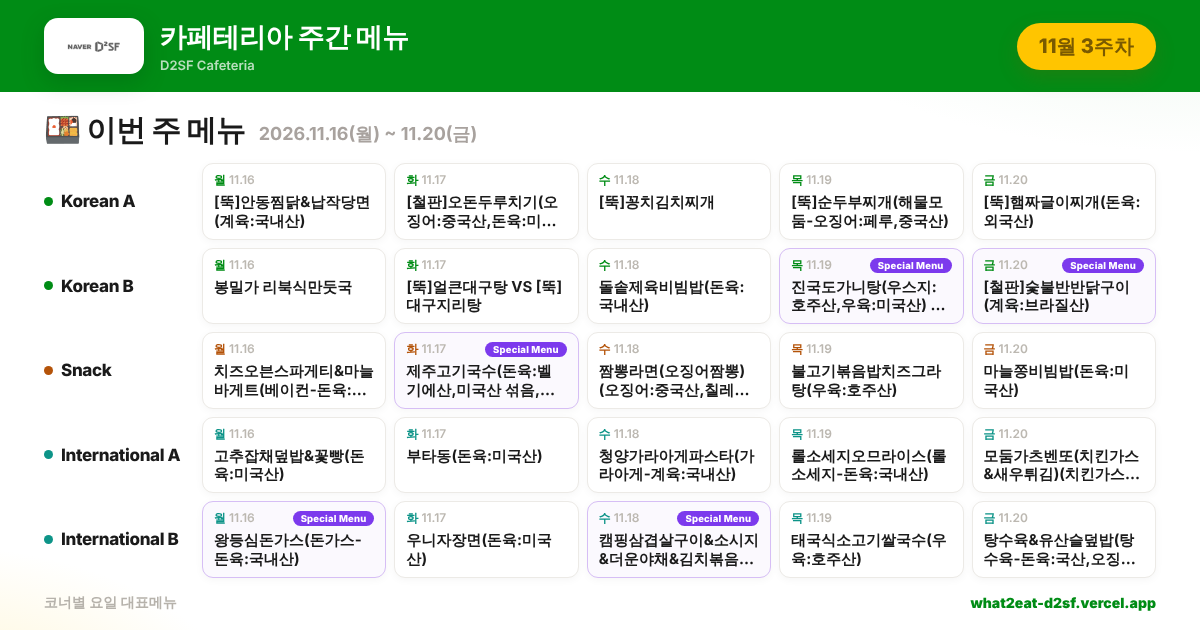
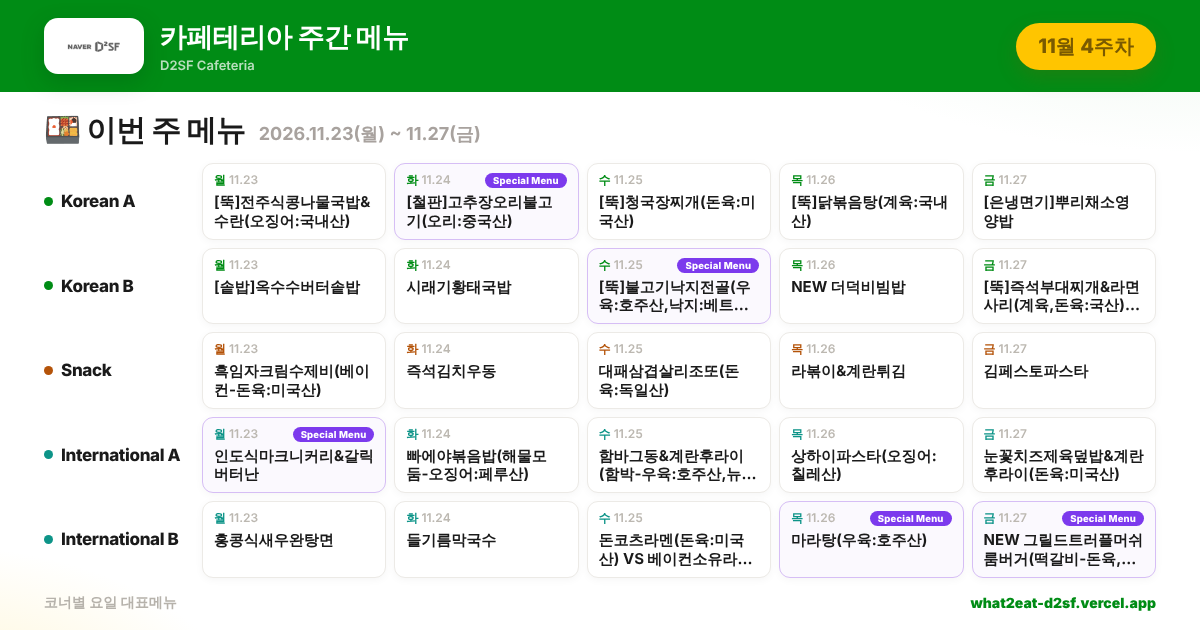
식단 추가: 12월 1주차(2026.11.30~12.04) 2026-w26
화재서초 게시판 12-1 식단표 이미지 전사.

Claude-Session: https://claude.ai/code/session_01CCk7kE6nDbFDt1BnXJzGQQ

diff --git a/src/data/menu-2026-w26.js b/src/data/menu-2026-w26.js
@@ -1,0 +1,122 @@
+// ─────────────────────────────────────────────────────────────
+// 지하식당 주간 식단 — 2026년 12월 1주차 (2026.11.30~12.04)
+// ※ 월~금 5일 전체 운영 (미운영 코너 없음) — 11월→12월 주간 걸침
+// 출처: 화재서초 게시판 12-1 식단표 (붙여넣은 이미지 전사)
+// 칼로리(kcal)는 1인분 추정치이며 실제 제공량과 다를 수 있습니다.
+// ─────────────────────────────────────────────────────────────
+
+const S = (meal, day, corner, price, cuisine, items, tag = null, side = false) => ({
+  meal,
+  day,
+  corner,
+  price,
+  cuisine,
+  items,
+  tag,
+  side,
+});
+
+const days = [
+  ["월", "11.30"],
+  ["화", "12.01"],
+  ["수", "12.02"],
+  ["목", "12.03"],
+  ["금", "12.04"],
+];
+
+const sets = [
+  // ───────── 조식 ─────────
+  S("조식", "월", "백반", 9400, "한식", [["[뚝]시금치순두부된장국", 150], ["현미밥", 300], ["우삼겹불고기(우육:호주산)", 300], ["가지볶음", 90], ["고들빼기", 40], ["깍두기 / 마시는요구르트", 80]]),
+  S("조식", "화", "백반", 9400, "한식", [["[뚝]동태살매운국(동태:러시아산)", 120], ["현미밥", 300], ["고추튀김", 200], ["계란후라이", 100], ["시래기된장나물", 60], ["깍두기 / 포도", 60]]),
+  S("조식", "수", "백반", 9400, "한식", [["[뚝]다슬기해장국", 100], ["현미밥", 300], ["돼지고기춘장볶음(돈육:미국산)", 300], ["감자채볶음", 150], ["양념김구이", 30], ["포기김치 / 양상추샐러드", 60]]),
+  S("조식", "목", "백반", 9400, "한식", [["[뚝]장터국밥(우육:호주산)", 350], ["현미밥", 300], ["임연수구이", 250], ["새송이버섯볶음", 90], ["궁채절임", 40], ["포기김치 / 요거트&씨리얼", 120]]),
+  S("조식", "금", "백반", 9400, "한식", [["[뚝]얼큰종합탕", 200], ["현미밥", 300], ["데리야끼닭조림(계육:브라질산)", 300], ["낙지젓(중국산)", 50], ["양배추된장무침", 60], ["깍두기 / 자몽", 60]]),
+  S("조식", "월", "라면코너", 7700, "분식", [["라면(진라면)", 500], ["단무지 / 포기김치", 20], ["김밥 반줄(햄-계육,돈육:국산)", 200]]),
+  S("조식", "화", "라면코너", 7700, "분식", [["라면(오징어짬뽕)", 500], ["단무지 / 포기김치", 20], ["김밥 반줄(햄-계육,돈육:국산)", 200]]),
+  S("조식", "수", "라면코너", 7700, "분식", [["라면(참깨라면)", 500], ["단무지 / 포기김치", 20], ["김밥 반줄(햄-계육,돈육:국산)", 200]]),
+  S("조식", "목", "라면코너", 7700, "분식", [["라면(너구리라면)", 500], ["단무지 / 포기김치", 20], ["김밥 반줄(햄-계육,돈육:국산)", 200]]),
+  S("조식", "금", "라면코너", 7700, "분식", [["라면(신라면)", 500], ["단무지 / 포기김치", 20], ["김밥 반줄(햄-계육,돈육:국산)", 200]]),
+
+  // ───────── 중식 ─────────
+  S("중식", "월", "Korean A", 9400, "한식", [["[은냉면기]콩나물버섯밥&부추양념장", 450], ["[뚝]늙은호박고추장찌개", 150], ["옛날소시지전&케찹", 200], ["메추리알떡볶이 / 해초채소무침", 150], ["포기김치", 15]], "welgreen"),
+  S("중식", "화", "Korean A", 9400, "한식", [["[뚝]꽃게된장찌개(꽃게:중국산)", 150], ["수수밥", 310], ["계란찜", 100], ["쥐어채고추장볶음", 90], ["고추지무침", 40], ["깍두기", 20]]),
+  S("중식", "수", "Korean A", 9400, "한식", [["[철판]춘천닭갈비(계육:브라질산)", 300], ["버섯맑은국", 80], ["흑미밥", 310], ["쫄면채소무침", 90], ["콩나물무침", 50], ["포기김치", 15]]),
+  S("중식", "목", "Korean A", 9400, "한식", [["[뚝]쇠고기미역국(우육:호주산)", 100], ["귀리밥", 310], ["메추리알장조림", 150], ["매콤어묵볶음", 200], ["치커리생채", 60], ["깍두기", 20]]),
+  S("중식", "금", "Korean A", 9400, "한식", [["[뚝]닭개장(계육:국내산,닭뼈:국산)", 150], ["차조밥", 310], ["비엔나소시지야채볶음(돈육,계육:국내산)", 250], ["감자조림", 150], ["미역초무침", 50], ["깍두기", 20]]),
+
+  S("중식", "월", "Korean B", 9900, "한식", [["[뚝]닭다리백숙(계육:국내산)", 350], ["기장밥 / 김치전", 310], ["연근조림", 90], ["해조채소무침", 60], ["배추겉절이(배추:국내산,고춧가루:중국산)", 40]], "단가"),
+  S("중식", "화", "Korean B", 9900, "한식", [["[철판]반반돼지불고기(돈육:미국산)", 300], ["흑미밥", 310], ["어묵국", 80], ["고추장두부조림", 150], ["고추지무침 / 포기김치", 40]], "단가"),
+  S("중식", "수", "Korean B", 9900, "한식", [["[뚝]부산돼지국밥(돈육:미국산)", 350], ["귀리밥", 310], ["메밀전병(배추:국내산,고춧가루:중국산)", 200], ["돌자반 / 콩나물무침", 60], ["석박지", 20]]),
+  S("중식", "목", "Korean B", 9900, "한식", [["[솥밥]가자미솥밥", 450], ["두부김칫국", 80], ["너비아니계란전&케찹(돈육,계육:국내산)", 200], ["고사리볶음", 60], ["치커리생채", 60], ["깍두기", 20]]),
+  S("중식", "금", "Korean B", 9900, "한식", [["마늘보쌈정식(돈육:미국산)(보쌈-돈육:외국산)", 350], ["차조밥 / 다시마부챗국", 310], ["대구식매운잡채", 150], ["모둠쌈&쌈장 / 무말랭이무침", 90], ["배추겉절이(배추:국내산,고춧가루:중국산)", 40]], "단가"),
+
+  S("중식", "월", "Snack", 8800, "분식", [["NEW 시오콘부계란볶음밥", 500], ["유부장국", 80], ["통치즈스틱", 200], ["양상추샐러드&망고D", 100], ["깍두기", 20]]),
+  S("중식", "화", "Snack", 8800, "분식", [["육개장칼국수(우육:호주산)", 500], ["추가밥", 300], ["해물파전(중국산)", 200], ["단무지", 20], ["배추겉절이(배추:국내산,고춧가루:중국산)", 40]]),
+  S("중식", "수", "Snack", 8800, "분식", [["남도ST 웰빙가분식SET / 미니잔치국수", 500], ["제육볶음(돈육:국내산)&상추쌈&쌈장", 300], ["흑미김밥(세절햄-계육,돈육:국산)", 300], ["고구마튀김", 200], ["양파초절임 / 단무지", 20]], "단가"),
+  S("중식", "목", "Snack", 8800, "분식", [["마라떡볶이", 400], ["반줄김밥(햄-계육,돈육:국산)", 200], ["야채튀김", 200], ["단무지", 20], ["쿨피스", 60]]),
+  S("중식", "금", "Snack", 8800, "중식", [["베지자장면", 500], ["계란팟국", 80], ["짬뽕만두", 200], ["양파&춘장", 40], ["단무지", 20]], "건강"),
+
+  S("중식", "월", "International A", 9400, "양식", [["블로네제파스타(돈육:미국산)", 560], ["고르곤졸라피자&꿀", 200], ["양상추샐러드&자몽D", 100], ["무비트피클", 20], ["탄산음료", 100]]),
+  S("중식", "화", "International A", 9400, "양식", [["NEW 매콤허브치킨카레라이스(계육:국내산)", 560], ["어묵국", 80], ["콘치즈토스트", 200], ["양상추샐러드&포도D", 100], ["깍두기", 20]], "맛집"),
+  S("중식", "수", "International A", 9400, "중식", [["해물볶음짬뽕&후라이(오징어:중국산)", 540], ["팽이버섯장국", 80], ["사모사&칠리소스", 200], ["양배추샐러드&싸우전D", 100], ["깍두기", 20]]),
+  S("중식", "목", "International A", 9400, "한식", [["고추장숯불삼겹덮밥(돈육:스페인산)", 560], ["콩나물국", 80], ["새우가스(새우가스:중국산)&타르타르D", 250], ["양배추샐러드&오리엔탈D", 100], ["깍두기", 20]], "맛집"),
+  S("중식", "금", "International A", 9400, "기타", [["분짜(돈육:미국산,국내산)", 500], ["쌀국수장국", 80], ["야채볶음밥", 450], ["단호박볼&칠리소스", 200], ["양상추샐러드&파인애플D", 100], ["꼬들단무지", 20]]),
+
+  S("중식", "월", "International B", 9900, "양식", [["치킨커틀렛정식(치킨가스-계육:국내산)", 300], ["흑미밥 / 크림스프", 310], ["바질펜네샐러드", 250], ["양상추샐러드&자몽D", 100], ["오이피클 / 깍두기", 20]]),
+  S("중식", "화", "International B", 9900, "한식", [["물냉면 VS 비빔냉면(우육:호주산)", 450], ["사골육수", 80], ["왕만두찜(김치만두-배추:국내산,고춧가루:중국산)", 200], ["멕시칸샐러드(햄-계육,돈육:국내산)", 100], ["냉면김치", 20]], "맛집"),
+  S("중식", "수", "International B", 9900, "한식", [["날치알돌솥비빔밥", 500], ["미니온메밀소바", 300], ["피자맛고로케&케찹", 200], ["양배추샐러드&싸우전D", 100], ["깍두기", 20]]),
+  S("중식", "목", "International B", 9900, "일식", [["스키야키(일본식소고기전골)(우육:호주산)", 300], ["&우동사리&유자폰즈소스", 150], ["후리카케양념밥", 400], ["오징어링튀김(오징어링:중국산)", 200], ["파인샐러드 / 깍두기", 100]], "단가"),
+  S("중식", "금", "International B", 9900, "중식", [["돌솥마파순두부(돈육:미국산)", 450], ["스크램블에그밥", 400], ["다시마부챗국", 80], ["유린기(계육:국내산)", 250], ["짜사이채무침", 50], ["포기김치", 15]]),
+
+  S("중식", "월", "추가배식대", 0, "기타", [["양파링튀김", 200]], null, true),
+  S("중식", "화", "추가배식대", 0, "기타", [["백순대볶음", 200]], null, true),
+  S("중식", "수", "추가배식대", 0, "기타", [["바나나", 60]], null, true),
+  S("중식", "목", "추가배식대", 0, "기타", [["김말이튀김", 200]], null, true),
+  S("중식", "금", "추가배식대", 0, "기타", [["꽈배기", 150]], null, true),
+
+  // ───────── 석식 ─────────
+  S("석식", "월", "Korean B", 9900, "한식", [["삼겹살김치찜(돈육:미국산)", 350], ["잡곡밥", 310], ["콩나물국", 80], ["단호박전", 150], ["부추생채", 50], ["깍두기 / 아이스홍시", 80]]),
+  S("석식", "화", "Korean B", 9900, "일식", [["믹스가즈동(왕새우&등심돈가스)(돈가스-돈육:국내산)", 560], ["우동국", 80], ["까르보나라떡볶이(베이컨-돈육:외국산)", 300], ["양상추샐러드&드레싱", 100], ["포기김치 / 오렌지", 60]]),
+  S("석식", "수", "Korean B", 9900, "한식", [["주꾸미치즈볶음밥&계란후라이(주꾸미:베트남산)", 560], ["바지락맑은국", 80], ["치킨너겟&허니머스타드(치킨너겟-계육:국내산)", 250], ["양상추샐러드&드레싱", 100], ["깍두기 / 푸딩", 120]]),
+  S("석식", "목", "Korean B", 9900, "한식", [["장조림버터밥(돈육:미국산)", 560], ["근대된장국", 80], ["깻잎튀김", 200], ["양배추샐러드&드레싱", 100], ["깍두기 / 포도", 60]]),
+  S("석식", "금", "Korean B", 9900, "한식", [["소불고기비빔밥(우육:호주산)", 560], ["두부장국", 80], ["녹두전", 200], ["맛살채소볶음", 150], ["과일샐러드", 100], ["포기김치", 15]]),
+  S("석식", "월", "Snack", 8800, "분식", [["새우라면(안성탕면)", 520], ["김밥반줄(햄-계육,돈육:국산)", 200], ["고구마맛탕", 200], ["단무지 / 포기김치", 20]]),
+  S("석식", "화", "Snack", 8800, "분식", [["어묵채라면(진라면)", 520], ["김밥반줄(햄-계육,돈육:국산)", 200], ["해물커틀렛&타르타르(해물커틀렛:중국산)", 200], ["단무지 / 포기김치", 20]]),
+  S("석식", "수", "Snack", 8800, "분식", [["수제비라면(진짬뽕)", 520], ["김밥반줄(햄-계육,돈육:국산)", 200], ["교자만두튀김", 200], ["단무지 / 포기김치", 20]]),
+  S("석식", "목", "Snack", 8800, "분식", [["토핑선택라면(신라면)", 520], ["김밥반줄(햄-계육,돈육:국산)", 200], ["웨지감자튀김&케찹", 200], ["단무지 / 포기김치", 20]]),
+  S("석식", "금", "Snack", 8800, "분식", [["떡라면(너구리라면)", 540], ["김밥반줄(햄-계육,돈육:국산)", 200], ["핫도그&케찹", 200], ["단무지 / 포기김치", 20]]),
+
+  // ───────── 테이크아웃 (요일별 회전) ─────────
+  S("테이크아웃", "월", "김밥SET", 8800, "분식", [["참치마요김밥&웰빙가김밥(햄-계육,돈육:국산)(참치캔-가다랑어:원양산)", 450]]),
+  S("테이크아웃", "화", "김밥SET", 8800, "분식", [["치즈김밥&웰빙가김밥(햄-계육,돈육:국산)", 450]]),
+  S("테이크아웃", "수", "김밥SET", 8800, "분식", [["참치묵은지김밥&웰빙가김밥(햄-계육,돈육:국산)(참치캔-가다랑어:원양산)", 450]]),
+  S("테이크아웃", "목", "김밥SET", 8800, "분식", [["진미채김밥&웰빙가김밥(햄-계육,돈육:국산)(진미오징어채-오징어:페루산)", 450]]),
+  S("테이크아웃", "금", "김밥SET", 8800, "분식", [["소불고기김밥&웰빙가김밥(햄-계육,돈육:국산)(우육:호주산)", 450]]),
+  S("테이크아웃", "월", "샌드위치", 8800, "양식", [["길거리토스트(햄-돈육:외국산,국내산)", 450], ["치아바타베이컨샌드위치(베이컨-돈육:외국산)", 450]]),
+  S("테이크아웃", "화", "샌드위치", 8800, "양식", [["크로와상루꼴라사과샌드위치", 450], ["클럽샌드위치(햄-돈육:외국산,국내산)", 450]]),
+  S("테이크아웃", "수", "샌드위치", 8800, "양식", [["라구소스파니니(돈육:국내산)", 450], ["에그스프레드샌드위치(햄-돈육:외국산,국내산)", 450]]),
+  S("테이크아웃", "목", "샌드위치", 8800, "양식", [["당근라페샌드위치(돈육:외국산,국내산)", 450], ["살라미치즈샌드위치(살라미-돈육,우육:호주산)", 450]]),
+  S("테이크아웃", "금", "샌드위치", 8800, "양식", [["바질치킨토마토파니니(계육:국내산)", 450], ["모닝롤샌드위치(돈육:외국산,국산/우육:호주산,국산)", 450]]),
+];
+
+const staticTakeout = [
+  ["바질페스토닭가슴살샐러드(계육:국내산)", "양식", 250, 8800],
+  ["불고기토마토샐러드(우육:호주산)", "양식", 220, 8800],
+  ["스윗에그베이컨샐러드(베이컨-돈육:외국산)", "양식", 200, 8800],
+  ["유부초밥&치킨가라아게(게맛살-명태연육:미국산)(참치캔-가다랑어:원양산)(계육:국내산)", "일식", 480, 8800],
+  ["아보카도타코샐러드(풀드포크-돈육:미국산)", "양식", 320, 8800],
+  ["시리얼&우유&사이드2개", "양식", 350, 8800], ["요거트시리얼&사이드메뉴", "양식", 300, 8800], ["올가니카&사이드메뉴", "양식", 300, 8800],
+  ["선식&사이드메뉴", "한식", 250, 8800], ["과일팩(5종)", "기타", 120, 8800],
+  ["건강죽 택1 (누룽지닭백숙/쇠고기/전복/참치/버섯야채)(오징어젓:중국산)", "한식", 250, 8800],
+  ["머슬랭Pack(연어&치킨)(계육:국내산,닭가슴살양배추쌈볼:중국산)", "양식", 400, 9400],
+  ["헬핏도시락(시트러스닭가슴살샐러드)(계육:국내산)", "양식", 400, 9400],
+];
+
+export const week = {
+  id: "2026-w26",
+  label: "12월 1주차",
+  range: "2026.11.30(월) ~ 12.04(금)",
+  days,
+  sets,
+  staticTakeout,
+};

diff --git a/index.html b/index.html
@@ -20,13 +20,13 @@
     <meta property="og:url" content="https://what2eat-d2sf.vercel.app/" />
     <meta property="og:title" content="D2SF 카페테리아 — 이번 주 메뉴" />
     <meta property="og:description" content="🍴 오늘 뭐 먹지? 메뉴 검색부터 칼로리 분석까지, 점심 고민은 여기서 끝" />
-    <meta property="og:image" content="https://what2eat-d2sf.vercel.app/api/og?v=2026-w25-mwoj2yxs" />
+    <meta property="og:image" content="https://what2eat-d2sf.vercel.app/api/og?v=2026-w26-mwyr6ven" />
     <meta property="og:image:width" content="1200" />
     <meta property="og:image:height" content="630" />
     <meta name="twitter:card" content="summary_large_image" />
     <meta name="twitter:title" content="D2SF 카페테리아 — 이번 주 메뉴" />
     <meta name="twitter:description" content="🍴 오늘 뭐 먹지? 메뉴 검색부터 칼로리 분석까지, 점심 고민은 여기서 끝" />
-    <meta name="twitter:image" content="https://what2eat-d2sf.vercel.app/api/og?v=2026-w25-mwoj2yxs" />
+    <meta name="twitter:image" content="https://what2eat-d2sf.vercel.app/api/og?v=2026-w26-mwyr6ven" />
     <!-- /OG -->
   </head>
   <body>

diff --git a/src/data/index.js b/src/data/index.js
@@ -7,6 +7,7 @@
 //   import { week as w2026w3 } from "./menu-2026-w3.js";
 //   export const weeks = [w2026w3, w2026w2];
 
+import { week as w2026w26 } from "./menu-2026-w26.js";
 import { week as w2026w25 } from "./menu-2026-w25.js";
 import { week as w2026w24 } from "./menu-2026-w24.js";
 import { week as w2026w23 } from "./menu-2026-w23.js";
@@ -33,4 +34,4 @@ import { week as w2026w3 } from "./menu-2026-w3.js";
 import { week as w2026w2 } from "./menu-2026-w2.js";
 
 // 최신 주차를 배열 맨 앞에 두세요. weeks[0] 이 기본 선택됩니다.
-export const weeks = [w2026w25, w2026w24, w2026w23, w2026w22, w2026w21, w2026w20, w2026w19, w2026w18, w2026w17, w2026w16, w2026w15, w2026w14, w2026w13, w2026w12, w2026w11, w2026w10, w2026w9, w2026w8, w2026w7, w2026w6, w2026w5, w2026w4, w2026w3, w2026w2];
+export const weeks = [w2026w26, w2026w25, w2026w24, w2026w23, w2026w22, w2026w21, w2026w20, w2026w19, w2026w18, w2026w17, w2026w16, w2026w15, w2026w14, w2026w13, w2026w12, w2026w11, w2026w10, w2026w9, w2026w8, w2026w7, w2026w6, w2026w5, w2026w4, w2026w3, w2026w2];
